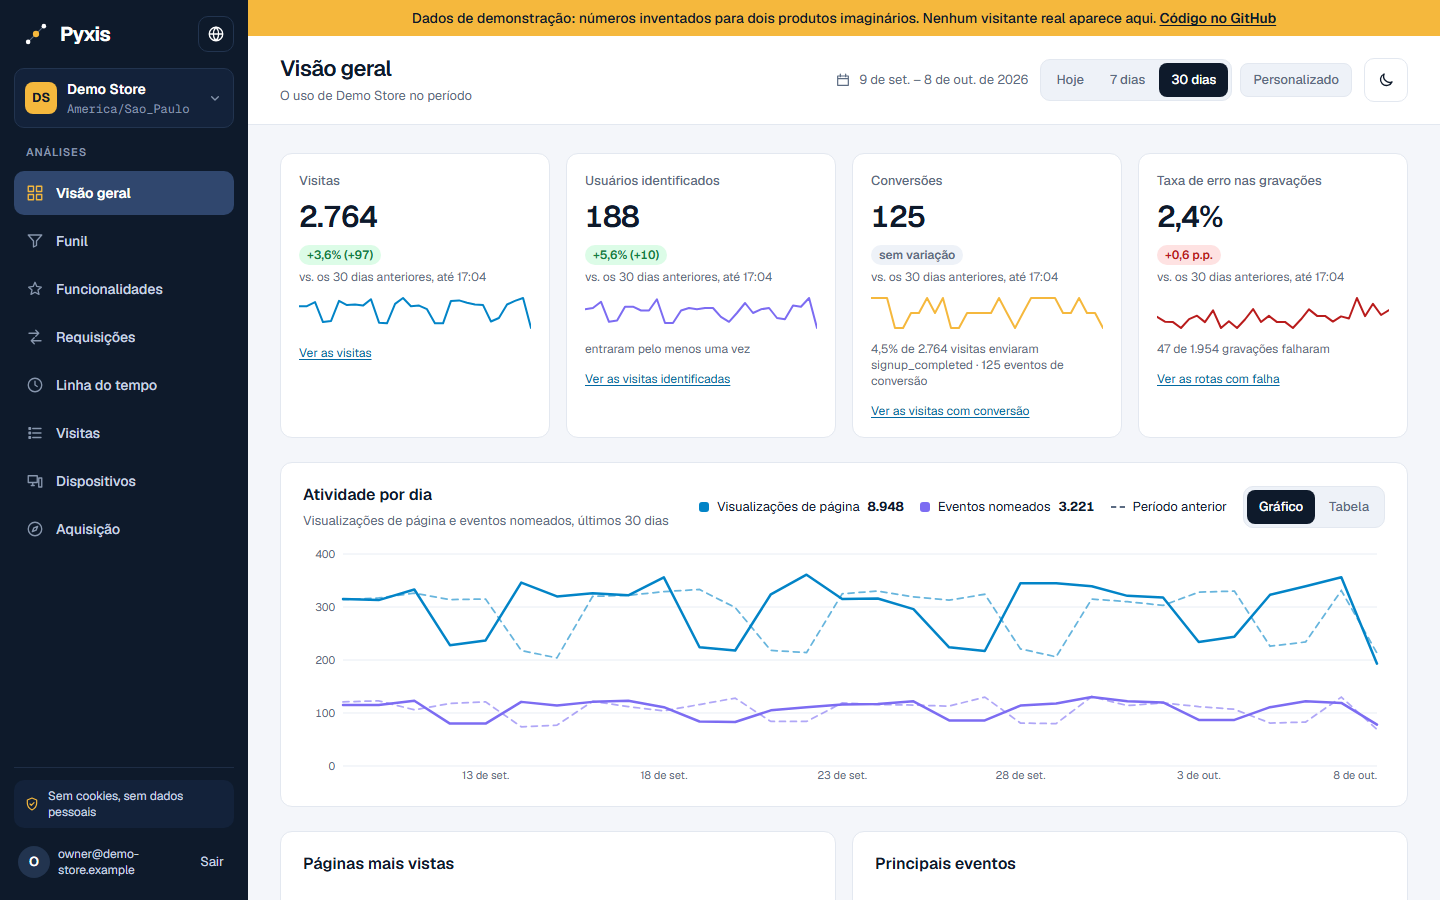
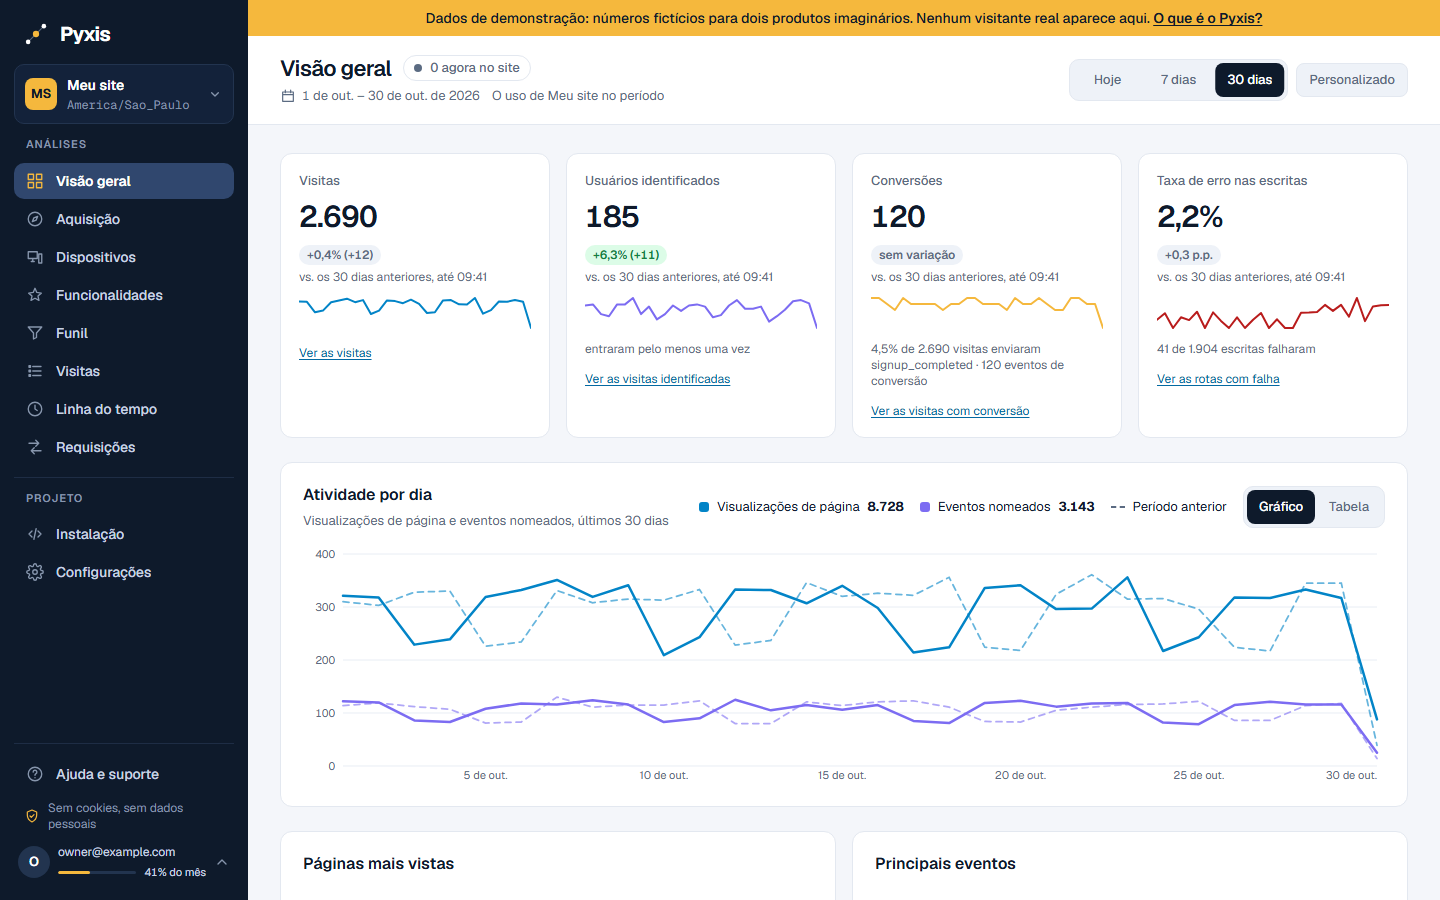
docs(readme): record the tour and the screenshots with the new sidebar
The README's tour and its four screenshots showed the sidebar from before the sidebar round. They
are recorded again from the live demo: the screens in the order of the questions, the Project
block with Install and Settings, Help and the account at the foot, and the month's usage under
the e-mail. The tour now clears the converting-visits filter on Visits before opening Requests,
since the filters follow the screens: with it kept, Requests showed a single failure and the
funnel's list ended empty. The alt texts name the city in the visit labels and the new sidebar.

diff --git a/README.md b/README.md
@@ -27,11 +27,11 @@ per-person timelines of a product, measured without cookies or personal data.**
 
 </div>
 
-<img alt="A 20-second tour of the live demo: the overview switches from 30 to 7 days, the Visits card plots visits per day against the previous period as a dashed line, See converting visits opens the matching visits, each labelled with its device, browser, system, state and country, the Requests screen shows the failures per day by status class, then the example sign-up funnel switches to the dark theme from the account menu and lists the visits that left before step 3" src=".github/assets/demo-tour.gif" width="100%">
+<img alt="A 21-second tour of the live demo: the overview switches from 30 to 7 days, the Visits card plots visits per day against the previous period as a dashed line, See converting visits opens the matching visits, each labelled with its device, browser, system, city, state and country, the filter is cleared and the Requests screen shows the failures per day by status class, then the example sign-up funnel switches to the dark theme from the account menu, which opens on the month's usage, and lists the visits that left before step 3. The sidebar lists the screens, then the project's Install and Settings, and at its foot Help and the account with the month's usage under the e-mail" src=".github/assets/demo-tour.gif" width="100%">
 
-| Requests, with a route's details                                                                                                                                                                                            | Funnel, dark theme                                                                                                                                                                                                                                                                                  | Timeline of one person                                                                                                                                                                                                                           |
-| --------------------------------------------------------------------------------------------------------------------------------------------------------------------------------------------------------------------------- | --------------------------------------------------------------------------------------------------------------------------------------------------------------------------------------------------------------------------------------------------------------------------------------------------- | ------------------------------------------------------------------------------------------------------------------------------------------------------------------------------------------------------------------------------------------------ |
-| <img alt="The Requests screen of the demo store with the details of POST /orders open: its status codes and, day by day, its calls, failures, median and p95 duration" src=".github/assets/screenshots/requests-light.png"> | <img alt="A six-step sign-up funnel in the dark theme: the overall conversion, the biggest drop-off and the median time to finish, then at each step the share that continued, the visits that dropped and the median time after the step before" src=".github/assets/screenshots/funnel-dark.png"> | <img alt="The timeline of the demo person: two visits, each labelled with its device, browser, system, state and country, and in the first a failed order, its retry and the order created" src=".github/assets/screenshots/timeline-light.png"> |
+| Requests, with a route's details                                                                                                                                                                                           | Funnel, dark theme                                                                                                                                                                                                                                                                                  | Timeline of one person                                                                                                                                                                                                                                 |
+| -------------------------------------------------------------------------------------------------------------------------------------------------------------------------------------------------------------------------- | --------------------------------------------------------------------------------------------------------------------------------------------------------------------------------------------------------------------------------------------------------------------------------------------------- | ------------------------------------------------------------------------------------------------------------------------------------------------------------------------------------------------------------------------------------------------------ |
+| <img alt="The Requests screen of the demo site with the details of POST /orders open: its status codes and, day by day, its calls, failures, median and p95 duration" src=".github/assets/screenshots/requests-light.png"> | <img alt="A six-step sign-up funnel in the dark theme: the overall conversion, the biggest drop-off and the median time to finish, then at each step the share that continued, the visits that dropped and the median time after the step before" src=".github/assets/screenshots/funnel-dark.png"> | <img alt="The timeline of the demo person: two visits, each labelled with its device, browser, system, city, state and country, and in the first a failed order, its retry and the order created" src=".github/assets/screenshots/timeline-light.png"> |
 
 The tour and the screenshots show invented demo data: the dashboard runs on it when no API is
 configured. The tour was recorded from the [live demo](https://demo.pyxis-analytics.dev).
@@ -94,7 +94,7 @@ its states is in the [Storybook](https://samuelcsantana.github.io/pyxis-web/).
 
 ## Internationalization
 
-<img alt="The Overview of the demo store in Brazilian Portuguese: Visão geral, its figures written as 2.764 and +3,6%, its dates as 9 de set. – 8 de out. de 2026, and the event names exactly as the site sent them" src=".github/assets/screenshots/overview-pt-br-light.png">
+<img alt="The Overview of the demo site in Brazilian Portuguese: Visão geral, its figures written as 2.690 and +0,4%, its dates as 1 de out. – 30 de out. de 2026, the sidebar as Análises and Projeto with Instalação and Configurações, the account with 41% do mês, and the event names exactly as the site sent them" src=".github/assets/screenshots/overview-pt-br-light.png">
 
 The dashboard speaks English, Brazilian Portuguese, Spanish, German, French, Italian and Dutch.
 English is the default and the source of every text; each other language is a typed translation
